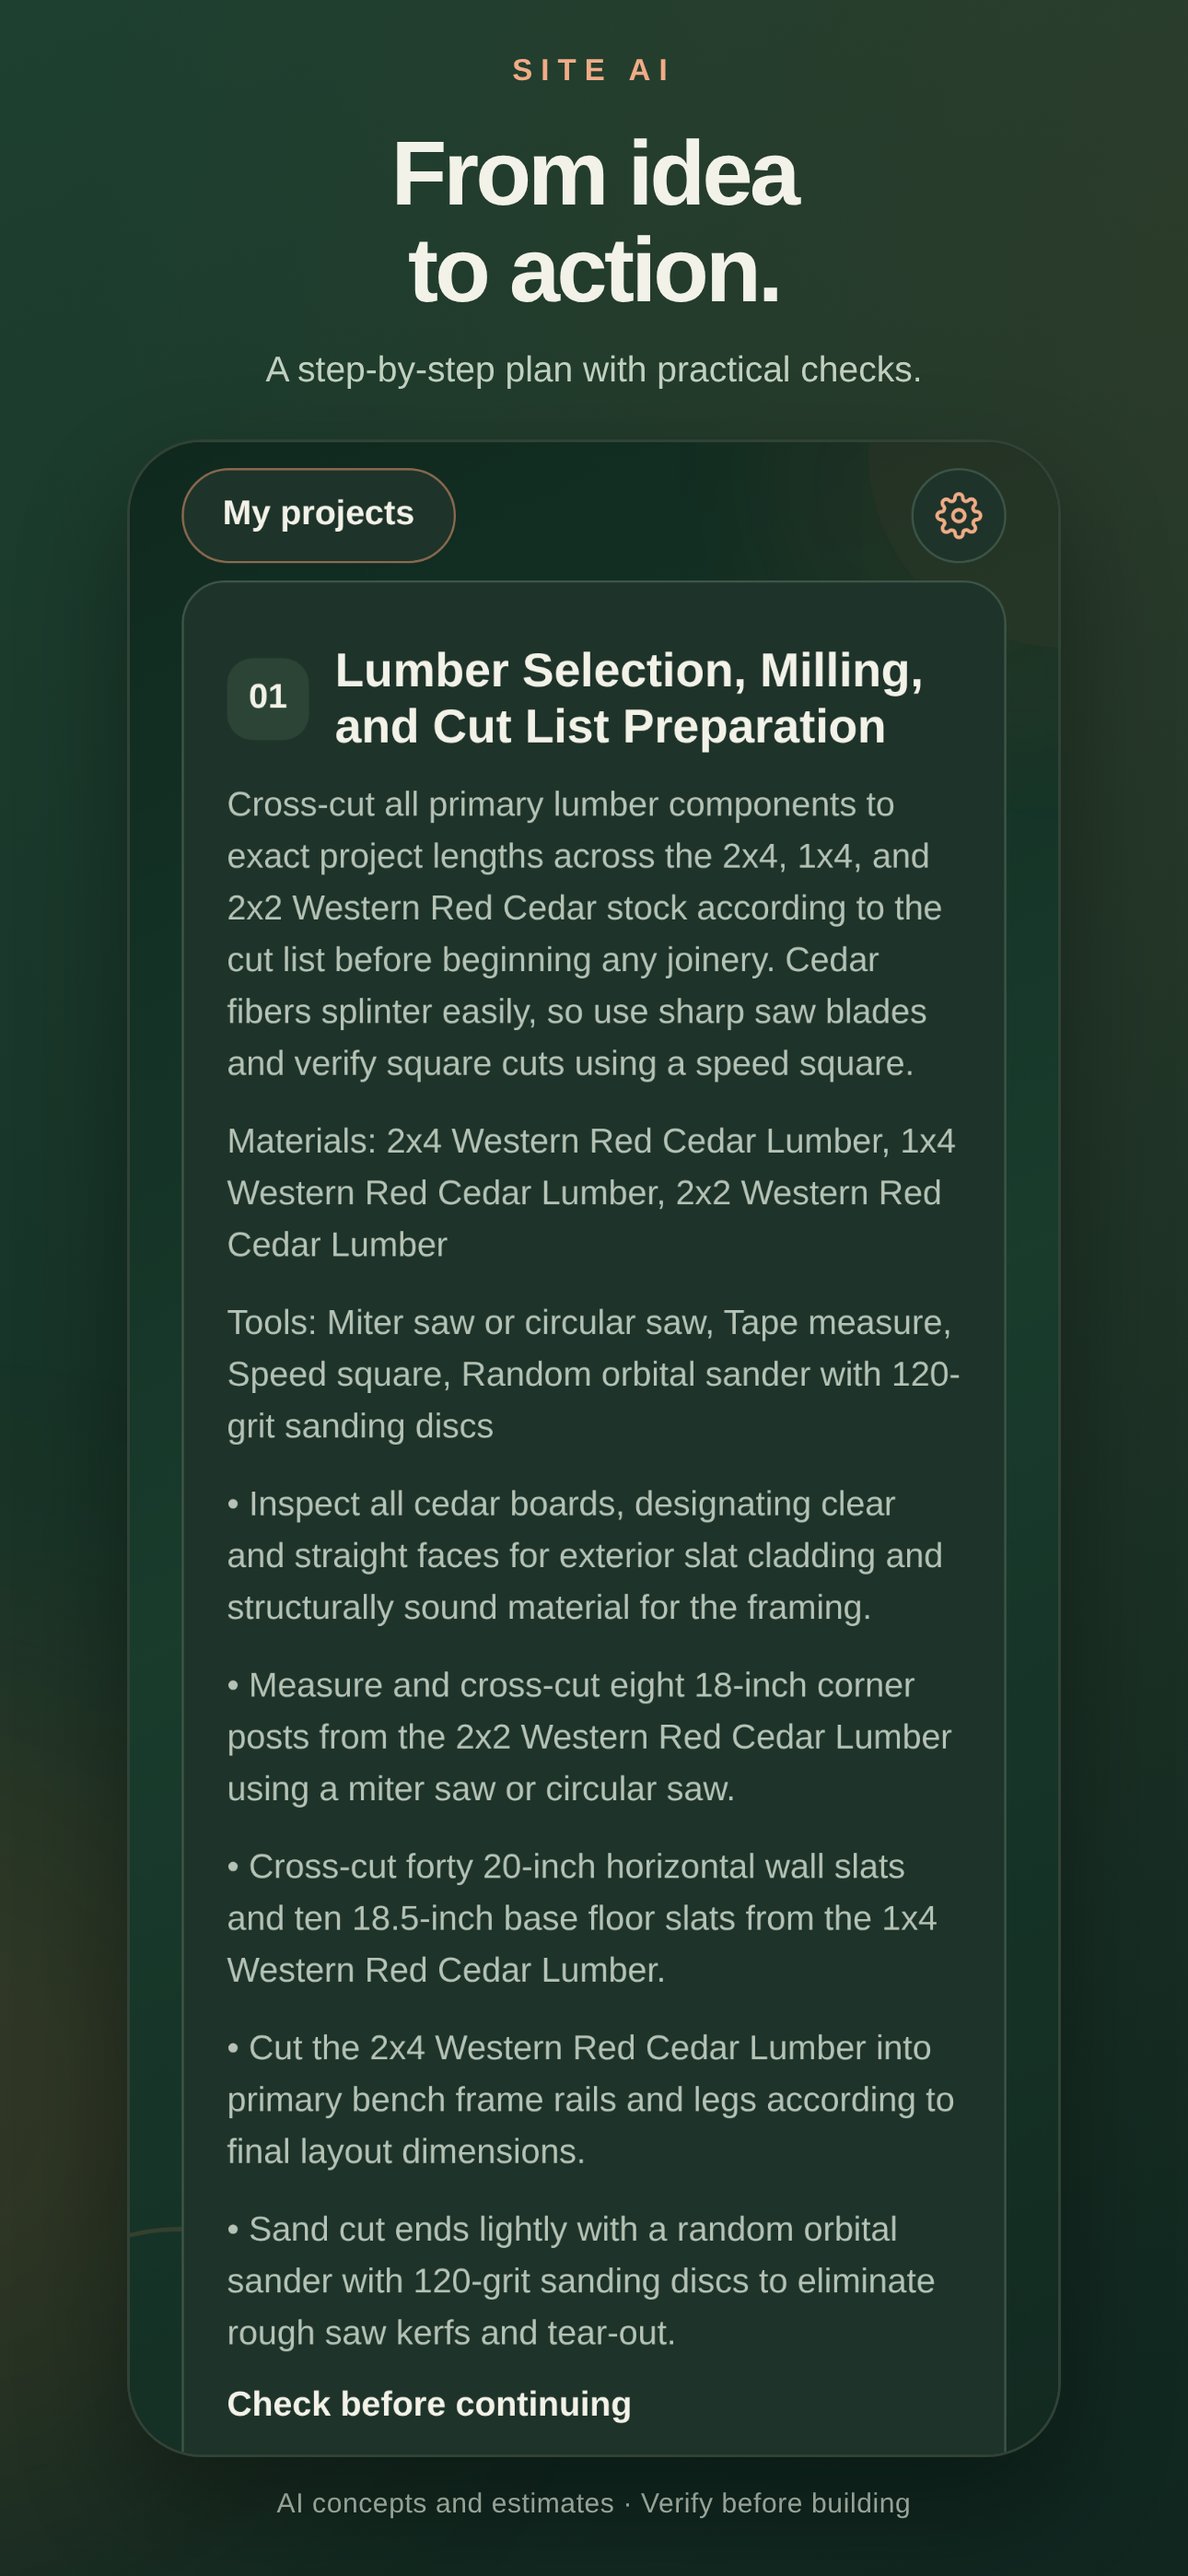
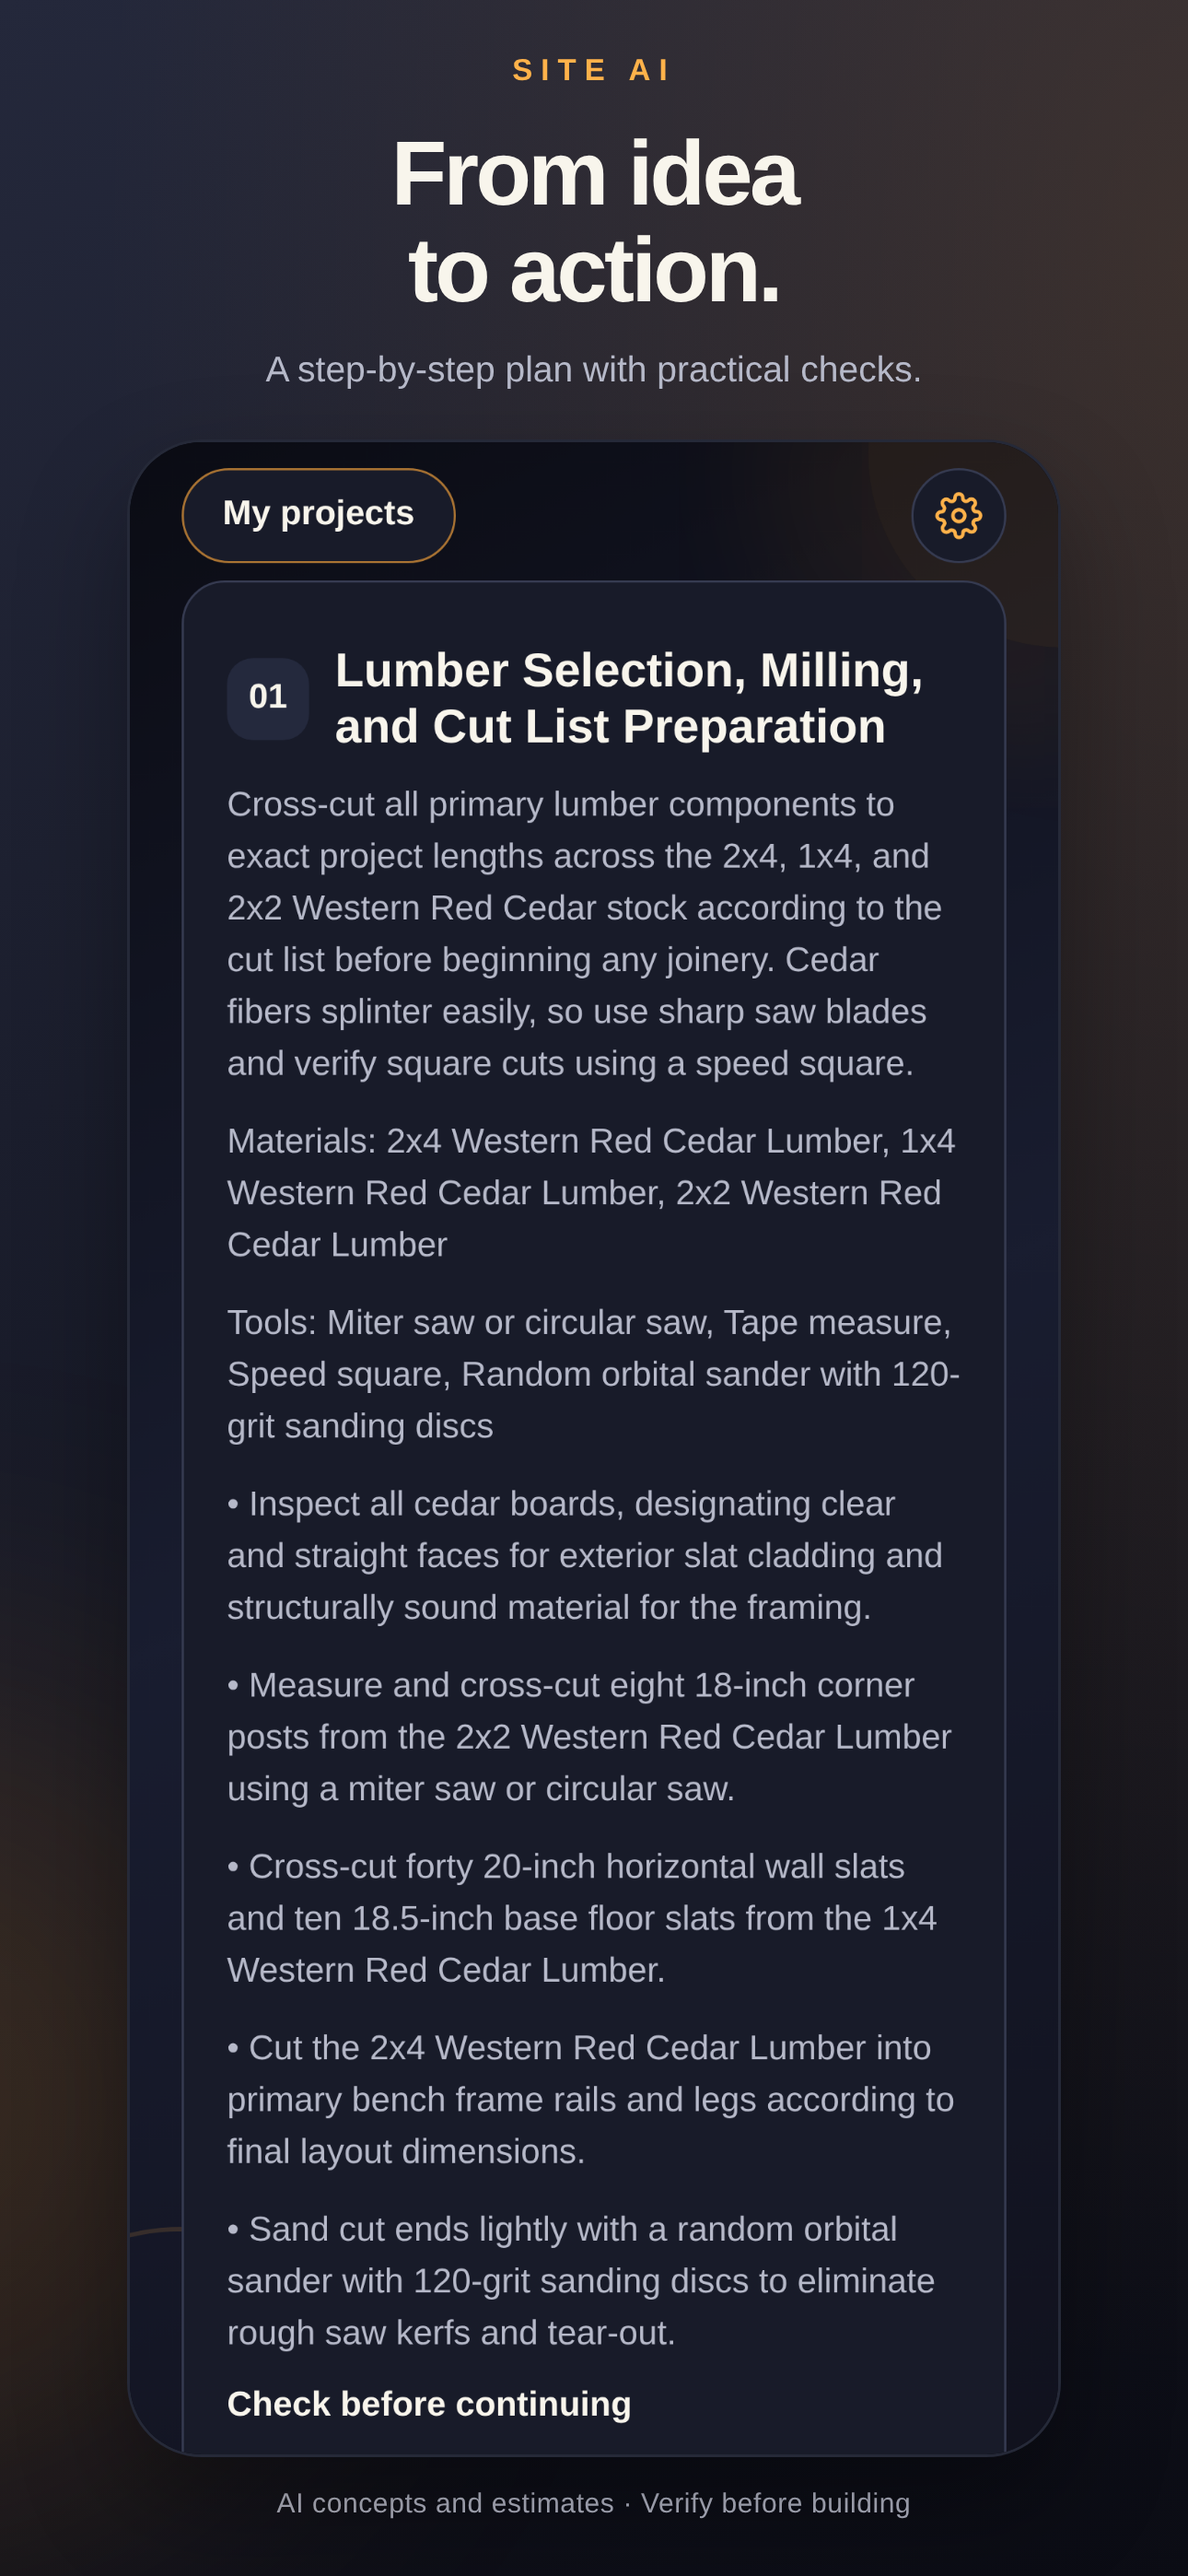
Refresh draft store images and record verified confirmation delivery

diff --git a/public/appstore/listing/index.html b/public/appstore/listing/index.html
@@ -1,1 +1,1 @@
-<!doctype html><html><head><meta name="viewport" content="width=device-width,initial-scale=1"><title>Site AI App Store screenshots</title><style>body{background:#14251f;color:#f3f2e8;font-family:Arial,sans-serif;padding:24px}.grid{display:grid;grid-template-columns:repeat(auto-fit,minmax(180px,1fr));gap:16px}img{width:100%;border-radius:14px}p{color:#b5c3b6}</style></head><body><h1>Site AI screenshots</h1><p>Draft listing assets from the current shared interface and a real AI example. Browser-rendered; final iPhone review remains necessary.</p><div class="grid"><a href="01-design.png"><img src="01-design.png"/></a><a href="02-projects.png"><img src="02-projects.png"/></a><a href="03-materials.png"><img src="03-materials.png"/></a><a href="04-plan.png"><img src="04-plan.png"/></a><a href="05-measurements.png"><img src="05-measurements.png"/></a></div></body></html>
+<!doctype html><html><head><meta name="viewport" content="width=device-width,initial-scale=1"><title>Site AI App Store screenshots</title><style>body{background:#0b0c14;color:#f8f5ec;font-family:Arial,sans-serif;padding:24px}.grid{display:grid;grid-template-columns:repeat(auto-fit,minmax(180px,1fr));gap:16px}img{width:100%;border-radius:14px}p{color:#b6b9c9}</style></head><body><h1>Site AI screenshots</h1><p>Draft listing assets from the current shared interface and a real AI example. Browser-rendered; final iPhone review remains necessary.</p><div class="grid"><a href="01-design.png"><img src="01-design.png"/></a><a href="02-projects.png"><img src="02-projects.png"/></a><a href="03-materials.png"><img src="03-materials.png"/></a><a href="04-plan.png"><img src="04-plan.png"/></a><a href="05-measurements.png"><img src="05-measurements.png"/></a></div></body></html>

diff --git a/docs/release/SMTP_STATUS.md b/docs/release/SMTP_STATUS.md
@@ -1,9 +1,9 @@
 # Account email configuration — November 5, 2026
 
-Google SMTP is now saved in Supabase: smtp.gmail.com, port 465, company support sender/login and display name Site AI. The password was entered privately in Supabase and is not in source or chat.
+Google SMTP is saved in Supabase: smtp.gmail.com, port 465, company support sender/login and display name Site AI. The credential is entered privately in Supabase and is not in source or chat.
 
-The confirmation subject is **Confirm your Site AI account**. Recovery uses **Reset your Site AI password**. The prepared branded HTML templates were activated and read back; each preserves all three real `{{ .ConfirmationURL }}` expressions. The configured limit is 30 messages/hour and the resend cooldown is 60 seconds. Google/provider quotas also apply.
+The branded confirmation and recovery templates are active. The confirmation subject is Confirm your Site AI account; real ConfirmationURL variables and confirmation security are preserved. Email limits remain 30/hour and a 60-second resend cooldown.
 
-**Delivery and native account return are not yet verified.** The cloud delivery check could not start because deployment API requests timed out, and direct access to the Auth host is unavailable from this execution environment. Its one-time trigger was removed. No successful signup/resend/reset delivery is claimed. The opt-in check remains available for a later controlled service test; it creates only an isolated company-inbox fixture, grants no credits and removes that fixture afterward.
+The live Auth logs identified the original sending failure as Gmail SMTP 534 InvalidSecondFactor. The owner replaced the credential and then confirmed that a fresh signup email arrived and its link returned to the installed Site AI app signed in. This is owner-verified confirmation delivery and native authenticated return. It is not an automated inbox test; password-recovery email delivery and broad deliverability remain unverified.
 
-Next: in TestFlight 37, use a fresh email address to create an account, verify sender/subject/inbox arrival, and open the real link on that phone. Check automatic authenticated app return, then password recovery. Do not share passwords, confirmation URLs or verification tokens in chat. Gmail's SMTP provider warning remains relevant; a dedicated transactional service is recommended for public-launch deliverability.
+The earlier optional cloud mail-check job did not produce a verified result and its production trigger was removed. No account credits or purchases were created by that check. Gmail's personal-mail SMTP warning still applies; a transactional sender remains preferable when scaling public signup volume.
